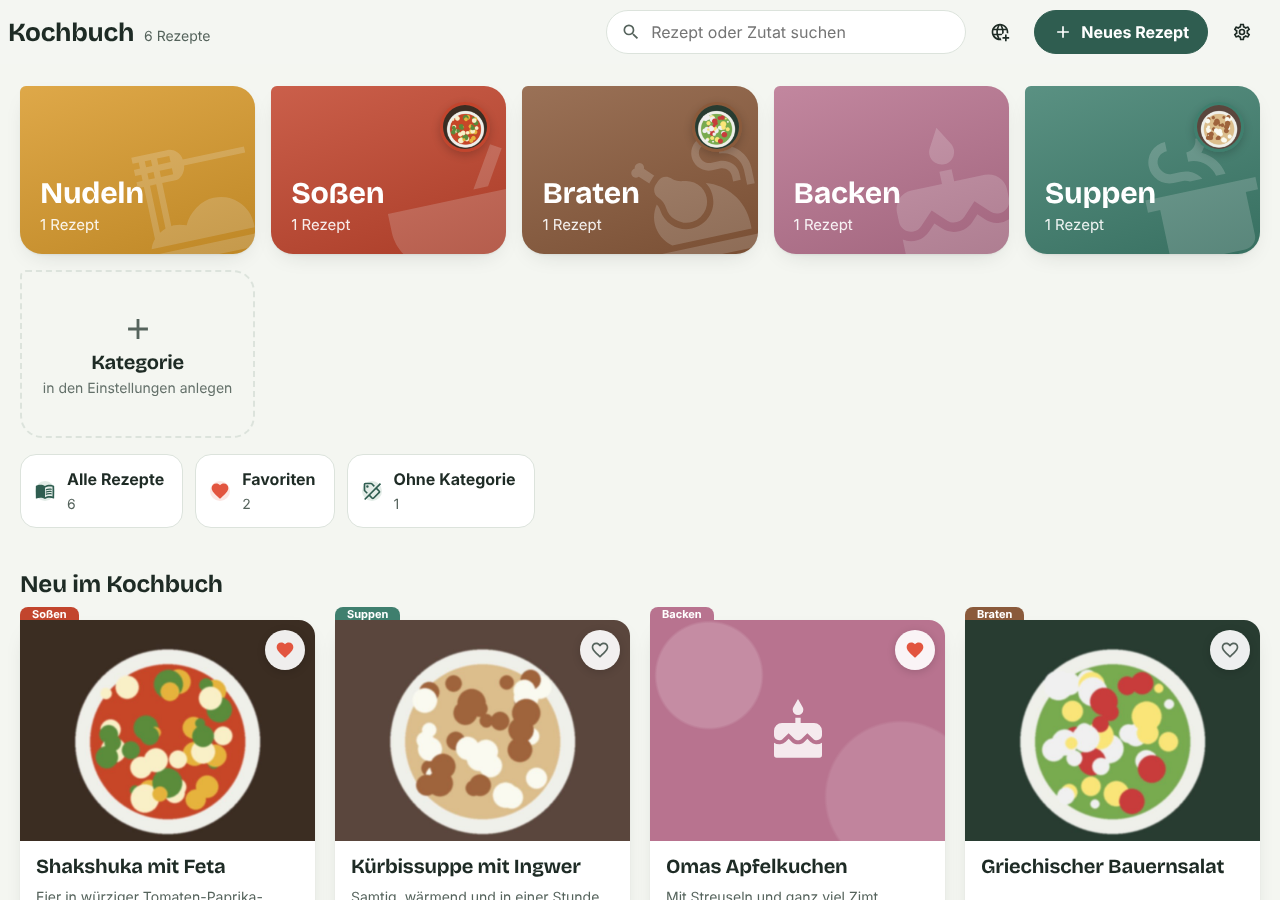
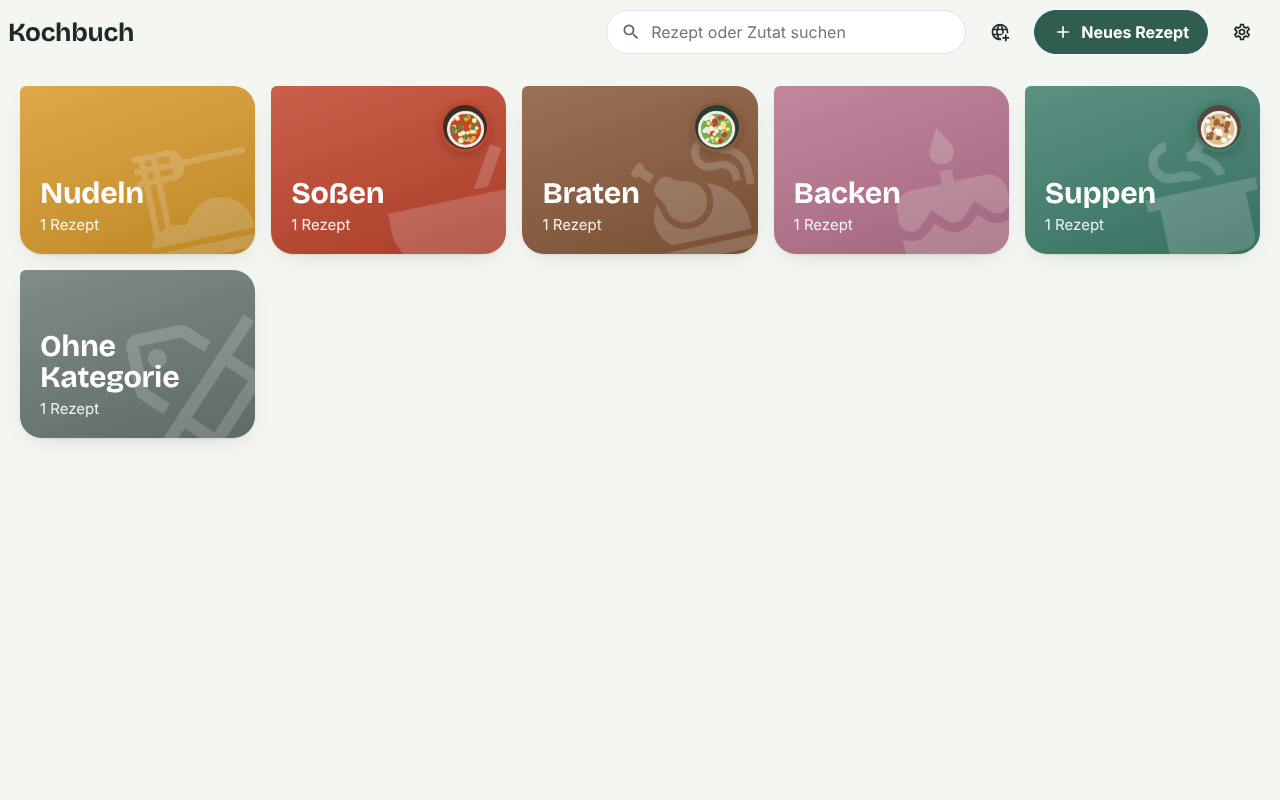
Kochbuch 1.2.0: Startseite nur mit Kategorien, Pfadleiste statt Reiter
- Startseite zeigt ausschließlich die Kategorie-Kacheln
- Kopfzeile: Kochbuch › Kategorie führt zurück zur Startseite
- Kategorie ist beim Rezept Pflicht
- Beim Löschen einer Kategorie werden die Rezepte verschoben

Claude-Session: https://claude.ai/code/session_01DF6XX5kd56oiDmByM1R25Q

diff --git a/custom_components/kochbuch/frontend/kochbuch-panel.js b/custom_components/kochbuch/frontend/kochbuch-panel.js
@@ -1,7 +1,7 @@
 /* Kochbuch – Panel für Home Assistant
  * https://github.com/domiundergroun/Kochrezepte
  */
-const KB_VERSION = "1.1.0";
+const KB_VERSION = "1.2.0";
 
 /* ------------------------------------------------------------------ Hilfen */
 const esc = (v) =>
@@ -271,6 +271,17 @@ main { max-width: 1280px; margin: 0 auto; padding: 4px 20px 80px; }
 .empty h2 { font-size: 26px; margin-bottom: 8px; }
 .empty p { color: var(--kb-ink-soft); margin: 0 0 22px; }
 .empty .row { display: flex; gap: 10px; justify-content: center; flex-wrap: wrap; }
+
+.crumbs { display: flex; align-items: center; gap: 2px; min-width: 0; font-weight: 700; }
+.crumbs button { display: inline-flex; align-items: center; gap: 8px; border: 0; background: transparent; height: 44px; padding: 0 12px; border-radius: 999px; font-family: var(--kb-display); font-size: 20px; font-weight: 800; color: var(--kb-ink); }
+.crumbs button:hover { background: var(--kb-herb-soft); }
+.crumbs button ha-icon { color: var(--kb-herb); }
+.crumbs .crumb-cat { font-family: var(--kb-body); font-size: 17px; font-weight: 700; color: var(--kb-ink-soft); }
+.crumbs .crumb-cat .title-dot { width: 10px; height: 10px; border-radius: 3px; display: inline-block; }
+.crumbs .sep { color: var(--kb-ink-soft); --mdc-icon-size: 20px; display: inline-flex; }
+.crumbs .here { display: inline-flex; align-items: center; padding: 0 8px; color: var(--kb-ink-soft); font-size: 17px; white-space: nowrap; overflow: hidden; text-overflow: ellipsis; }
+.crumbs .here .title-dot { width: 10px; height: 10px; margin-right: 8px; vertical-align: 0; flex: none; }
+.cat-title { font-size: clamp(34px, 5vw, 52px); font-weight: 800; margin: 18px 0 0; padding-bottom: 10px; border-bottom: 4px solid var(--c); display: inline-block; }
 
 /* Startseite */
 .title-dot { display: inline-block; width: 14px; height: 14px; border-radius: 4px; margin-right: 10px; vertical-align: 2px; }
@@ -571,6 +582,9 @@ main { max-width: 1280px; margin: 0 auto; padding: 4px 20px 80px; }
   .f.s3, .f.s2 { grid-column: span 1; }
   .f { grid-column: span 2; }
   .irow { grid-template-columns: 24px 62px 74px 1fr 36px; gap: 6px; }
+  .crumbs button { font-size: 18px; padding: 0 8px; }
+  .crumbs .sep, .crumbs .here, .crumbs .crumb-cat { display: none; }
+  .cat-title { font-size: 30px; margin-top: 8px; }
   .savebar { padding-left: 14px; padding-right: 14px; }
   .savebar .btn { flex: 1 1 0; min-width: 0; justify-content: center; padding: 0 10px; }
   .savebar .btn ha-icon { display: none; }
@@ -743,7 +757,7 @@ class KochbuchPanel extends HTMLElement {
   }
 
   _newDraft(base) {
-    const cat = this.view.name === "list" && this._cat(this.filter) ? this.filter : "";
+    const cat = this.view.name === "list" && this._cat(this.filter) ? this.filter : ((this.settings.categories || [])[0]?.id || "");
     return {
       title: "", description: "", category: cat, tags: [], image: "",
       servings: this.settings.default_servings || 4, servings_unit: "Portionen",
@@ -838,7 +852,7 @@ class KochbuchPanel extends HTMLElement {
 
   _renderHome() {
     const n = this.recipes.length;
-    const header = this._header("list", "", "Kochbuch", `${n} ${n === 1 ? "Rezept" : "Rezepte"}`);
+    const header = this._header("list", "", "Kochbuch", "");
     if (this.search.trim()) {
       return `${header}<main>${this._toolbar()}<section class="grid" id="grid">${this._renderCards()}</section></main>`;
     }
@@ -854,45 +868,31 @@ class KochbuchPanel extends HTMLElement {
         <span class="ct-count">${list.length ? `${list.length} ${list.length === 1 ? "Rezept" : "Rezepte"}` : "Noch leer"}</span>
       </button>`;
     }).join("");
-    const favs = this.recipes.filter((r) => r.favorite).length;
     const none = this.recipes.filter((r) => !r.category || !this._cat(r.category)).length;
-    const mini = [
-      `<button class="mini-tile" data-action="cat" data-id="all"><ha-icon icon="mdi:book-open-variant"></ha-icon><span><b>Alle Rezepte</b><small>${n}</small></span></button>`,
-      `<button class="mini-tile mini-fav" data-action="cat" data-id="fav"><ha-icon icon="mdi:heart"></ha-icon><span><b>Favoriten</b><small>${favs}</small></span></button>`,
-      none ? `<button class="mini-tile" data-action="cat" data-id="none"><ha-icon icon="mdi:tag-off-outline"></ha-icon><span><b>Ohne Kategorie</b><small>${none}</small></span></button>` : "",
-    ].join("");
-    const newest = this.recipes.slice().sort((a, b) => (b.created || "").localeCompare(a.created || "")).slice(0, 4);
-    return `${header}<main class="home">
-      ${n ? "" : `<div class="welcome"><div><h2>Willkommen im Kochbuch</h2><p>Wählt eine Kategorie und tragt das erste Rezept ein – oder holt eins per Link aus dem Internet.</p></div>
-        <div class="row"><button class="btn primary" data-action="new"><ha-icon icon="mdi:pencil-plus"></ha-icon>Rezept schreiben</button><button class="btn" data-action="import"><ha-icon icon="mdi:web-plus"></ha-icon>Aus dem Internet holen</button></div></div>`}
-      <section class="shelf" aria-label="Kategorien">${tiles}
-        <button class="cat-tile add" data-action="settings"><ha-icon icon="mdi:plus"></ha-icon><span class="ct-name">Kategorie</span><span class="ct-count">in den Einstellungen anlegen</span></button>
-      </section>
-      <div class="minis">${mini}</div>
-      ${newest.length ? `<h2 class="sec-title">Neu im Kochbuch</h2><section class="grid">${this._renderCards(newest)}</section>` : ""}
-    </main>`;
+    const noneTile = none ? `<button class="cat-tile" style="--c:#6B7A72" data-action="cat" data-id="none">
+        <ha-icon class="bg" icon="mdi:tag-off-outline"></ha-icon>
+        <span class="ct-name">Ohne Kategorie</span><span class="ct-count">${none} ${none === 1 ? "Rezept" : "Rezepte"}</span></button>` : "";
+    const body = tiles || noneTile
+      ? `<section class="shelf" aria-label="Kategorien">${tiles}${noneTile}</section>`
+      : `<div class="empty"><div class="plate"><ha-icon icon="mdi:shape-outline"></ha-icon></div><h2>Noch keine Kategorien</h2><p>Legt in den Einstellungen Kategorien an, z. B. Nudeln oder Suppen.</p><div class="row"><button class="btn primary" data-action="settings"><ha-icon icon="mdi:cog-outline"></ha-icon>Zu den Einstellungen</button></div></div>`;
+    return `${header}<main class="home">${body}</main>`;
+  }
+
+  _crumbs(extra) {
+    return `<nav class="crumbs" aria-label="Pfad"><button data-action="home"><ha-icon icon="mdi:home-outline"></ha-icon><span>Kochbuch</span></button>${extra || ""}</nav>`;
   }
 
   _renderList() {
-    const cats = this.settings.categories || [];
-    const count = (id) => this.recipes.filter((r) => r.category === id).length;
-    const favs = this.recipes.filter((r) => r.favorite).length;
-    const none = this.recipes.filter((r) => !r.category || !this._cat(r.category)).length;
-    const tab = (id, label, color, n, icon) =>
-      `<button class="tab ${this.filter === id ? "on" : ""}" data-action="filter" data-id="${esc(this._slug(id))}" style="--c:${color}">${icon || `<span class="dot"></span>`}${label} <span class="n">${n}</span></button>`;
-    const tabs = [
-      tab("all", "Alle", "var(--kb-ink)", this.recipes.length, " "),
-      tab("fav", "Favoriten", "var(--kb-tomato)", favs, `<ha-icon icon="mdi:heart" style="--mdc-icon-size:16px;color:var(--kb-tomato)"></ha-icon>`),
-      ...cats.map((c) => tab(c.id, esc(c.name), esc(c.color), count(c.id))),
-      none || this.filter === "none" ? tab("none", "Ohne Kategorie", "var(--kb-ink-soft)", none) : "",
-    ].join("");
     const c = this._cat(this.filter);
-    const lead = `<button class="icon-btn" data-action="home" aria-label="Zur Startseite"><ha-icon icon="mdi:arrow-left"></ha-icon></button>`;
-    const title = c ? `<span class="title-dot" style="background:${esc(c.color)}"></span>${esc(c.name)}` : esc(this._filterName(this.filter));
-    const header = this._header("list", lead, title, "");
+    const crumbs = this._crumbs(`<span class="sep"><ha-icon icon="mdi:chevron-right"></ha-icon></span><span class="here">${c ? `<span class="title-dot" style="background:${esc(c.color)}"></span>` : ""}${esc(this._filterName(this.filter))}</span>`);
+    const header = this._top("list", `${crumbs}<div class="spacer"></div>
+      <label class="search"><ha-icon icon="mdi:magnify"></ha-icon><input id="search" type="search" placeholder="In ${esc(this._filterName(this.filter))} suchen" value="${esc(this.search)}" aria-label="Suchen"></label>
+      <button class="icon-btn" data-action="import" title="Aus dem Internet importieren" aria-label="Aus dem Internet importieren"><ha-icon icon="mdi:web-plus"></ha-icon></button>
+      <button class="btn primary" data-action="new"><ha-icon icon="mdi:plus"></ha-icon><span class="lbl">Neues Rezept</span></button>
+      <button class="icon-btn" data-action="settings" title="Einstellungen" aria-label="Einstellungen"><ha-icon icon="mdi:cog-outline"></ha-icon></button>`);
     const empty = !this._filtered().length && !this.search.trim();
     return `${header}<main>
-      <nav class="tabs" aria-label="Kategorien">${tabs}</nav>
+      <h1 class="cat-title" style="--c:${esc(c ? c.color : "var(--kb-ink)")}">${esc(this._filterName(this.filter))}</h1>
       ${empty ? "" : this._toolbar()}
       <section class="grid" id="grid">${empty ? this._emptyCategory() : this._renderCards()}</section>
     </main>`;
@@ -955,7 +955,7 @@ class KochbuchPanel extends HTMLElement {
     const cookedN = (r.cooked || []).length;
 
     const header = this._top("", `
-      <button class="icon-btn" data-action="back" aria-label="Zurück"><ha-icon icon="mdi:arrow-left"></ha-icon></button>
+      ${this._crumbs(c ? `<span class="sep"><ha-icon icon="mdi:chevron-right"></ha-icon></span><button class="crumb-cat" data-action="cat" data-id="${esc(c.id)}"><span class="title-dot" style="background:${esc(c.color)}"></span>${esc(c.name)}</button>` : "")}
       <div class="spacer"></div>
       <button class="icon-btn" data-action="fav" data-id="${esc(r.id)}" aria-label="Favorit" style="color:${r.favorite ? "var(--kb-tomato)" : "inherit"}"><ha-icon icon="${r.favorite ? "mdi:heart" : "mdi:heart-outline"}"></ha-icon></button>
       <button class="icon-btn" data-action="print" aria-label="Drucken" title="Drucken"><ha-icon icon="mdi:printer-outline"></ha-icon></button>
@@ -1144,7 +1144,7 @@ class KochbuchPanel extends HTMLElement {
         <div class="fields" style="margin-top:18px">
           <div class="f"><label for="f-title">Name des Rezepts</label><input id="f-title" class="title-input" data-f="title" value="${esc(d.title)}" placeholder="z. B. Omas Apfelkuchen"></div>
           <div class="f"><label for="f-desc">Kurzbeschreibung</label><textarea id="f-desc" data-f="description" rows="2" placeholder="Worauf darf man sich freuen?">${esc(d.description)}</textarea></div>
-          <div class="f s3"><label for="f-cat">Kategorie</label><select id="f-cat" data-f="category"><option value="">Ohne Kategorie</option>${cats.map((c) => `<option value="${esc(c.id)}" ${d.category === c.id ? "selected" : ""}>${esc(c.name)}</option>`).join("")}</select></div>
+          <div class="f s3"><label for="f-cat">Kategorie</label><select id="f-cat" data-f="category">${d.category && this._cat(d.category) ? "" : `<option value="" selected disabled>Bitte wählen</option>`}${cats.map((c) => `<option value="${esc(c.id)}" ${d.category === c.id ? "selected" : ""}>${esc(c.name)}</option>`).join("")}</select></div>
           <div class="f s3"><label>Schwierigkeit</label><div class="diff">${[1, 2, 3].map((n) => `<button data-action="diff" data-n="${n}" class="${d.difficulty === n ? "on" : ""}">${DIFFICULTY[n]}</button>`).join("")}</div></div>
           <div class="f s2"><label for="f-prep">Vorbereitung (Min)</label><input id="f-prep" type="number" min="0" data-f="prep_time" value="${d.prep_time || ""}" placeholder="0"></div>
           <div class="f s2"><label for="f-cook">Koch-/Backzeit (Min)</label><input id="f-cook" type="number" min="0" data-f="cook_time" value="${d.cook_time || ""}" placeholder="0"></div>
@@ -1213,6 +1213,7 @@ class KochbuchPanel extends HTMLElement {
     this._readDraft();
     const d = this.draft;
     if (!d.title.trim()) { this._showToast("Bitte gebt dem Rezept einen Namen.", true); this._focusSel = "#f-title"; this.render(); return; }
+    if ((this.settings.categories || []).length && !this._cat(d.category)) { this._showToast("Bitte wählt eine Kategorie.", true); this._focusSel = "#f-cat"; this.render(); return; }
     const recipe = { ...d };
     delete recipe._key;
     recipe.ingredients = d.ingredients
@@ -1259,7 +1260,8 @@ class KochbuchPanel extends HTMLElement {
     const todos = this._todoEntities();
     const name = (e) => this._hass.states[e]?.attributes?.friendly_name || e;
     const total = (s.categories || []).length;
-    const used = (id) => this.recipes.filter((r) => r.category === id).length;
+    const moved = (cat) => { let c = cat; for (let i = 0; i < 10 && s.moves && c in s.moves; i++) c = s.moves[c]; return c; };
+    const used = (id) => this.recipes.filter((r) => moved(r.category) === id).length;
     const cats = (s.categories || []).map((c, i) => `<div class="cat-row ${this._flashCat === i ? "flash" : ""}" data-cat="${i}">
         <input type="color" data-c="color" value="${esc(c.color)}" aria-label="Farbe von ${esc(c.name)}">
         <span class="prev" style="background:${esc(c.color)}"><ha-icon icon="${esc(c.icon)}"></ha-icon></span>
@@ -1272,7 +1274,7 @@ class KochbuchPanel extends HTMLElement {
         </span>
       </div>`).join("");
     this._flashCat = null;
-    return `${this._top("", `<button class="icon-btn" data-action="back" aria-label="Zurück"><ha-icon icon="mdi:arrow-left"></ha-icon></button><div class="brand"><h1>Einstellungen</h1></div>`)}
+    return `${this._top("", `${this._crumbs(`<span class="sep"><ha-icon icon="mdi:chevron-right"></ha-icon></span><span class="here">Einstellungen</span>`)}`)}
     <div class="editor">
       <section class="panel"><h2>Kategorien</h2>
         <p class="muted" style="margin:-6px 0 14px">So erscheinen die Kategorien auf der Startseite. Mit den Pfeilen ändert ihr die Reihenfolge.</p>
@@ -1320,7 +1322,9 @@ class KochbuchPanel extends HTMLElement {
       inner = `<h2>Rezept löschen?</h2><p>„${esc(r?.title)}“ wird mit Foto endgültig aus dem Kochbuch entfernt.</p>
         <div class="row"><button class="btn" data-action="dlg-close">Behalten</button><button class="btn primary" style="background:var(--kb-tomato);border-color:var(--kb-tomato);color:#fff" data-action="delete-confirm">Löschen</button></div>`;
     } else if (d.type === "cat-del") {
-      inner = `<h2>„${esc(d.name)}“ löschen?</h2><p>${d.n === 1 ? "Ein Rezept gehört" : `${d.n} Rezepte gehören`} zu dieser Kategorie. Die Rezepte bleiben erhalten und erscheinen danach unter „Ohne Kategorie“. Gelöscht wird erst beim Speichern der Einstellungen.</p>
+      const others = this.settingsDraft.categories.filter((_, i) => i !== d.idx && _.name.trim());
+      inner = `<h2>„${esc(d.name)}“ löschen?</h2><p>${d.n === 1 ? "Ein Rezept gehört" : `${d.n} Rezepte gehören`} zu dieser Kategorie. Wohin sollen ${d.n === 1 ? "es" : "sie"} verschoben werden? Gelöscht wird erst beim Speichern der Einstellungen.</p>
+        <select class="inp" id="move-target">${others.map((c) => `<option value="${esc(c.id)}">${esc(c.name)}</option>`).join("")}<option value="">Ohne Kategorie lassen</option></select>
         <div class="row"><button class="btn" data-action="dlg-close">Behalten</button><button class="btn primary" style="background:var(--kb-tomato);border-color:var(--kb-tomato);color:#fff" data-action="cat-del-confirm">Kategorie löschen</button></div>`;
     } else if (d.type === "import") {
       inner = `<h2>Rezept aus dem Internet</h2><p>Fügt die Adresse eines Rezepts ein, z. B. von Chefkoch, Lecker oder einem Foodblog. Ihr könnt alles vor dem Speichern noch anpassen.</p>
@@ -1530,17 +1534,29 @@ class KochbuchPanel extends HTMLElement {
       case "cat-del": {
         this._readSettings();
         const c = this.settingsDraft.categories[idx];
-        const n = this.recipes.filter((r) => r.category === c.id).length;
+        const sd = this.settingsDraft;
+        const n = this.recipes.filter((r) => { let x = r.category; for (let i = 0; i < 10 && sd.moves && x in sd.moves; i++) x = sd.moves[x]; return x === c.id; }).length;
         if (n) { this.dialog = { type: "cat-del", idx, name: c.name, n }; this.render(); }
         else { this.settingsDraft.categories.splice(idx, 1); this.render(); }
         break;
       }
-      case "cat-del-confirm": this.settingsDraft.categories.splice(this.dialog.idx, 1); this.dialog = null; this.render(); break;
+      case "cat-del-confirm": {
+        const sd = this.settingsDraft;
+        const gone = sd.categories[this.dialog.idx].id;
+        const target = this.shadowRoot.querySelector("#move-target")?.value || "";
+        sd.moves = sd.moves || {};
+        for (const k of Object.keys(sd.moves)) if (sd.moves[k] === gone) sd.moves[k] = target;
+        sd.moves[gone] = target;
+        sd.categories.splice(this.dialog.idx, 1);
+        this.dialog = null; this.render();
+        break;
+      }
       case "settings-save": {
         this._readSettings();
         this.settingsDraft.categories = this.settingsDraft.categories.filter((c) => c.name.trim());
         try {
           this.settings = await this._hass.callWS({ type: "kochbuch/settings", settings: this.settingsDraft });
+          if (this.settingsDraft.moves) this._setData(await this._hass.callWS({ type: "kochbuch/data" }));
           this._showToast("Einstellungen gespeichert");
           this._go("", true);
         } catch (err) { this._showToast(`Fehler: ${err.message || err}`, true); }

diff --git a/custom_components/kochbuch/store.py b/custom_components/kochbuch/store.py
@@ -220,6 +220,15 @@ class KochbuchStore:
                     }
                 )
             self.settings["categories"] = cats
+        moves = settings.get("moves")
+        if isinstance(moves, dict):
+            valid = {c["id"] for c in self.settings.get("categories", [])}
+            for recipe in self.recipes.values():
+                old = recipe.get("category")
+                if old in moves:
+                    target = _str(moves[old], 60)
+                    recipe["category"] = target if target in valid else ""
+                    recipe["updated"] = _now()
         await self._async_save()
         return self.settings
 

diff --git a/custom_components/kochbuch/const.py b/custom_components/kochbuch/const.py
@@ -1,7 +1,7 @@
 """Konstanten für die Kochbuch-Integration."""
 
 DOMAIN = "kochbuch"
-VERSION = "1.1.0"
+VERSION = "1.2.0"
 
 STORAGE_KEY = "kochbuch.rezepte"
 STORAGE_VERSION = 1

diff --git a/README.md b/README.md
@@ -2,14 +2,14 @@
 
 Euer gemeinsames Rezeptbuch direkt in Home Assistant – mit eigener Seite in der Seitenleiste, Kochmodus fürs Küchentablet und Einkaufsliste per Knopfdruck.
 
-![Version](https://img.shields.io/badge/Version-1.1.0-2F5D50) ![HACS](https://img.shields.io/badge/HACS-Custom-F2B134)
+![Version](https://img.shields.io/badge/Version-1.2.0-2F5D50) ![HACS](https://img.shields.io/badge/HACS-Custom-F2B134)
 
 ## Was es kann
 
 - **Rezepte sammeln** mit Foto, Kategorie, Schlagworten, Zeiten, Schwierigkeit, Bewertung, Zutaten (mit Zwischenüberschriften) und Arbeitsschritten
-- **Startseite mit Kategorien** als große Kacheln, dazu Alle Rezepte, Favoriten und die neuesten Rezepte
-- **Kategorien verwalten** in den Einstellungen: hinzufügen, umbenennen, Farbe und Symbol wählen, Reihenfolge ändern, löschen
-- **Rezeptlisten mit Register-Reitern** pro Kategorie, Suche (auch nach Zutaten) und Sortierung
+- **Startseite mit euren Kategorien** als große Kacheln – sonst nichts. Das Kochbuch startet leer, ohne Beispielrezepte
+- **Kategorien verwalten** in den Einstellungen: hinzufügen, umbenennen, Farbe und Symbol wählen, Reihenfolge ändern, löschen (Rezepte einer gelöschten Kategorie werden in eine andere verschoben)
+- **Rezeptlisten pro Kategorie** mit Suche (auch nach Zutaten) und Sortierung; oben führt „Kochbuch“ jederzeit zurück zur Startseite
 - **Portionen umrechnen** – alle Mengen passen sich automatisch an (inkl. ½, ¼ …)
 - **Einkaufsliste**: Zutaten antippen, die schon da sind – der Rest landet in eurer To-do-Liste (z. B. „Einkaufsliste“)
 - **Kochmodus**: ein Schritt pro Bildschirm in großer Schrift, Bildschirm bleibt an, Zutaten daneben
@@ -58,6 +58,7 @@ anzahl: 4          # bei favoriten/neu
 
 | Version | Änderungen |
 |---|---|
+| 1.2.0 | Startseite zeigt nur noch die Kategorien; Reiterleiste ersetzt durch „Kochbuch › Kategorie“ zum Zurückspringen; Kategorie beim Rezept ist Pflicht; beim Löschen einer Kategorie wählt ihr, wohin die Rezepte wandern |
 | 1.1.0 | Startseite zeigt die Kategorien als Kacheln; Kategorien in den Einstellungen anlegen, bearbeiten, sortieren und löschen; neue Standard-Kategorien Nudeln, Soßen, Braten, Backen, Suppen |
 | 1.0.1 | Handy: Suchfeld in eigener Zeile, Kopfzeile passt wieder aufs Display; Mengen wie 1/2 werden als ½ angezeigt; Karten-Schriften korrigiert |
 | 1.0.0 | Erste Version: Rezeptverwaltung, Kochmodus, Timer, Einkaufsliste, Web-Import, Sicherung, Dashboard-Karte, Sensor |
